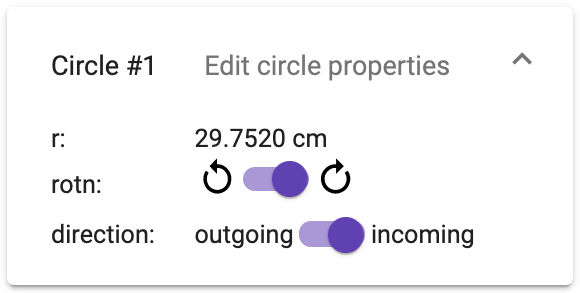
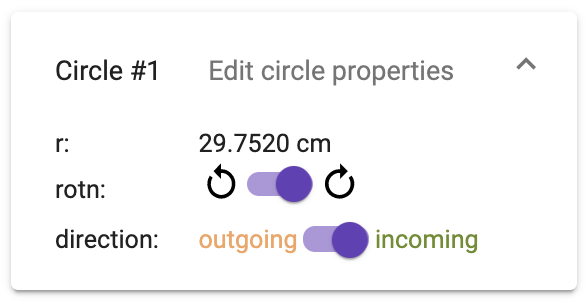
finish first version of help dialog

diff --git a/src/app/end-user/analysis-display/help-dialog.html b/src/app/end-user/analysis-display/help-dialog.html
@@ -1,6 +1,6 @@
 <h2 *ngIf="!data.editModeOn && !data.event" mat-dialog-title>Getting Started</h2>
 <h2 *ngIf="!data.editModeOn && data.event" mat-dialog-title>Events</h2>
-<h2 *ngIf="data.editModeOn && data.event" mat-dialog-title>Analysis</h2>
+<h2 *ngIf="data.editModeOn && data.event" mat-dialog-title>Analysis (Online Portion)</h2>
 
 <mat-dialog-content class="mat-typography">
 
@@ -182,10 +182,108 @@
         </p>
 
         <div fxLayout="row" fxLayoutAlign="center start">
-            <div fxFlex class="help-dialog-image-container">
+            <div fxFlex class="help-dialog-card-image-container">
                 <img src="../../../assets/K->XYpi-first-circle-edit-properties.png" alt="An Event" width="250">
             </div>
         </div>
+
+        <p>
+            Note that the information panel for Circle #1 shows that the radius of the circle
+            is r = 29.7520 cm. This value, along with the value for the strength of the magnetic
+            field, can be used to determine the momentum of the particle in the 'offline' part
+            of the analysis.
+        </p>
+        <p>
+            Continuing in the same way, you can select the points for the positively charged
+            particle:
+        </p>
+
+        <div fxLayout="row" fxLayoutAlign="center start">
+            <div fxFlex class="help-dialog-image-container">
+                <img src="../../../assets/K->XYpi-second-circle-dots.png" alt="An Event" width="300">
+            </div>
+        </div>
+
+        <p>
+            ...and fit a circle to them. Another panel appears for this circle and you can set its properties.
+            In this case, the particle is <strong class="orange-text">outgoing</strong>
+            and traveling in a counter-clockwise path (<span class="svg-icon">
+                <app-ccw-icon></app-ccw-icon>
+            </span>):
+        </p>
+
+        <div fxLayout="row" fxLayoutAlign="center start">
+            <div fxFlex class="help-dialog-card-image-container">
+                <img src="../../../assets/K->XYpi-second-circle-edit-properties.png" alt="An Event" width="250">
+            </div>
+        </div>
+
+        <p>
+            The information panel for Circle #2 also indicates that the particle's momentum vector
+            (which is tangent to the circle at the point where the decay occurred) makes an angle of
+            &theta; = 3.3210 radians compared to the '+x' direction.
+            Once a second circle has been added, a <strong>momentum diagram</strong> appears, with
+            vectors representing the momenta of the <span class="green-text">incoming</span> and
+            <span class="orange-text">outgoing</span> particles:
+        </p>
+
+        <div fxLayout="row" fxLayoutAlign="center start">
+            <div fxFlex class="help-dialog-card-image-container">
+                <img src="../../../assets/K->XYpi-momentum-diagram.png" alt="An Event" width="150">
+            </div>
+        </div>
+
+        <p>
+            You can continue in this way for each of the charged particles in the event. Once you are finished,
+            click on the <strong>Review</strong> tab, to check that you didn't make any mistakes, and then
+            click on <strong>Finish</strong> to <strong>Submit</strong> your event.
+        </p>
+
+        <h3>Neutral Particles</h3>
+
+        <p>
+            If one of the particles in an event is <strong>neutral</strong>, it will <strong>not be detected</strong> by
+            the wires. Also, its
+            path will not be bent into a circle by the magnetic field (because it has no charge). In our simulation,
+            neutral particles are represented by straight dashed lines:
+        </p>
+
+        <div fxLayout="row" fxLayoutAlign="center start">
+            <div fxFlex class="help-dialog-image-container">
+                <img src="../../../assets/X->YK-neutral-particle.png" alt="An Event" width="300">
+            </div>
+        </div>
+
+        <p>
+            The above image shows an example where the <span class="green-text">incoming particle</span> is neutral.
+            The <span class="orange-text">outgoing particles</span> are both charged, with one being positive
+            (<span class="svg-icon">
+                <app-ccw-icon></app-ccw-icon>
+            </span>) and the other negative (<span class="svg-icon">
+                <app-cw-icon></app-cw-icon>
+            </span>).
+        </p>
+
+        <p>
+            Here's another example of a decay involving a neutral particle:
+        </p>
+
+        <div fxLayout="row" fxLayoutAlign="center start">
+            <div fxFlex class="help-dialog-image-container">
+                <img src="../../../assets/pi->XY-neutral-particle.png" alt="An Event" width="300">
+            </div>
+        </div>
+
+        <p>
+            In this case, the <span class="green-text">incoming particle</span> is negatively charged
+            (<span class="svg-icon">
+                <app-cw-icon></app-cw-icon>
+            </span>), while one of the <span class="orange-text">outgoing particles</span> is neutral
+            (represented by the <span class="orange-text">orange dashed line</span>)
+            and the other is negatively charged (<span class="svg-icon">
+                <app-cw-icon></app-cw-icon>
+            </span>).
+        </p>
 
     </div>
 

diff --git a/src/app/end-user/analysis-display/analysis-display.component.scss b/src/app/end-user/analysis-display/analysis-display.component.scss
@@ -63,6 +63,14 @@
     margin-bottom: 16px;
 }
 
+.help-dialog-image-container {
+    width: 100%;
+    height: 100%;
+    text-align: center;
+    margin-bottom: 16px;
+}
+
+
 .green-text {
     color: olivedrab;
 }
